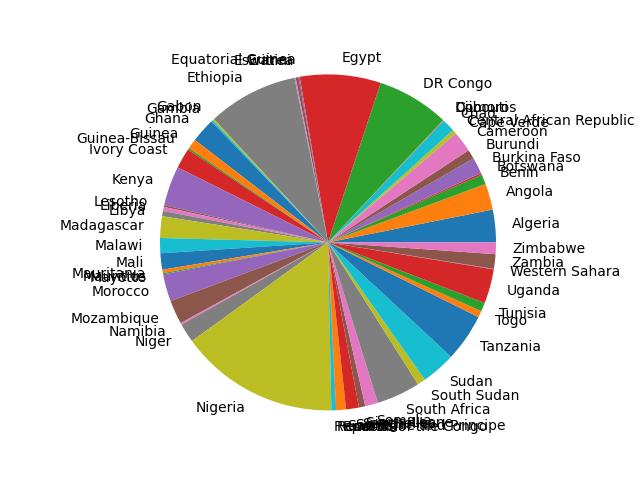
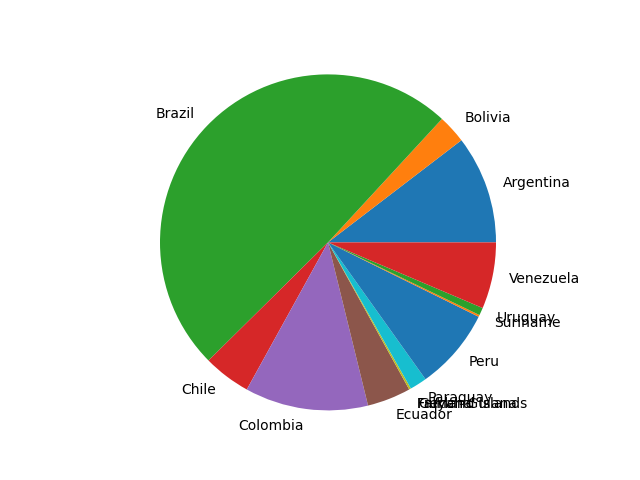
Nuevas actualizaciones

Changed region(s): [[0.0938, 0.0938, 1.0, 0.9062]]

diff --git a/web-server/store.py b/web-server/store.py
@@ -1,0 +1,10 @@
+import requests
+
+def get_categories():
+    r = requests.get("https://api.escuelajs.co/api/v1/categories")
+    print(r.status_code)
+    print(r.text)
+    print(type(r.text))
+    categories= r.json()
+    for category in categories:
+        print (category["name"])

diff --git a/app/main.py b/app/main.py
@@ -11,7 +11,7 @@ def run():
   '''
 
   df = pd.read_csv('data.csv')
-  df = df[df['Continent'] == 'Africa']
+  df = df[df['Continent'] == 'South America']
 
   countries = df['Country'].values
   percentages = df['World Population Percentage'].values

diff --git a/web-server/main.py b/web-server/main.py
@@ -1,0 +1,8 @@
+import store
+
+def run():
+    store.get_categories()
+
+if __name__=="__main__":
+    run()
+
